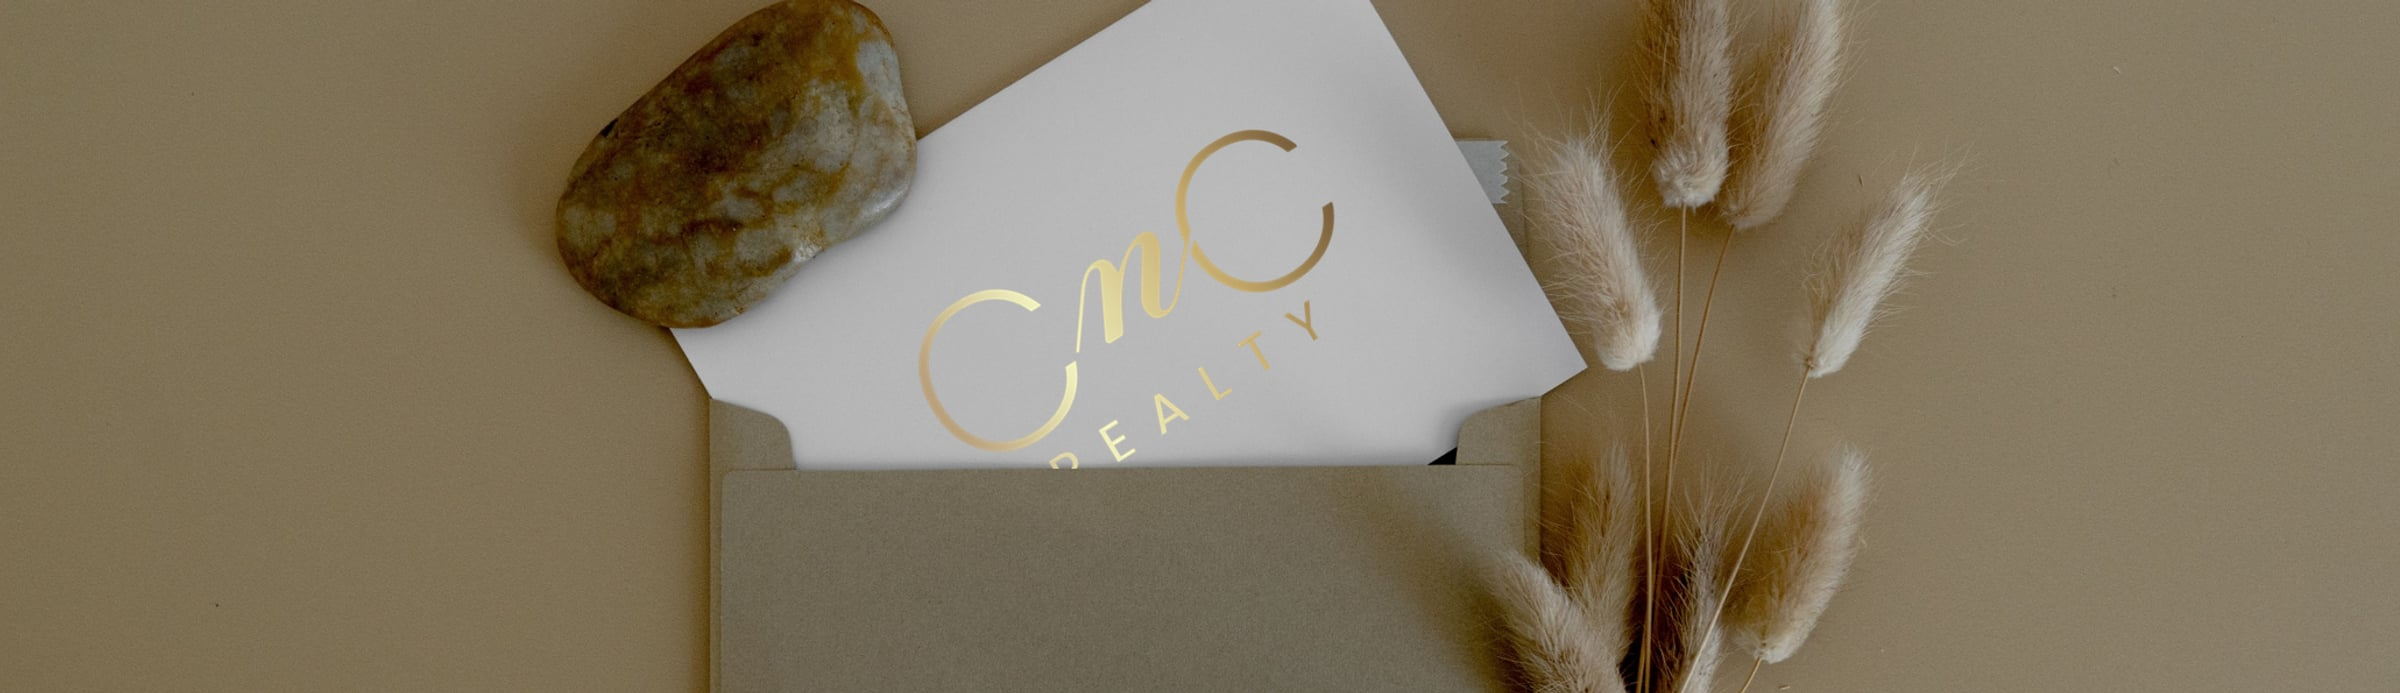
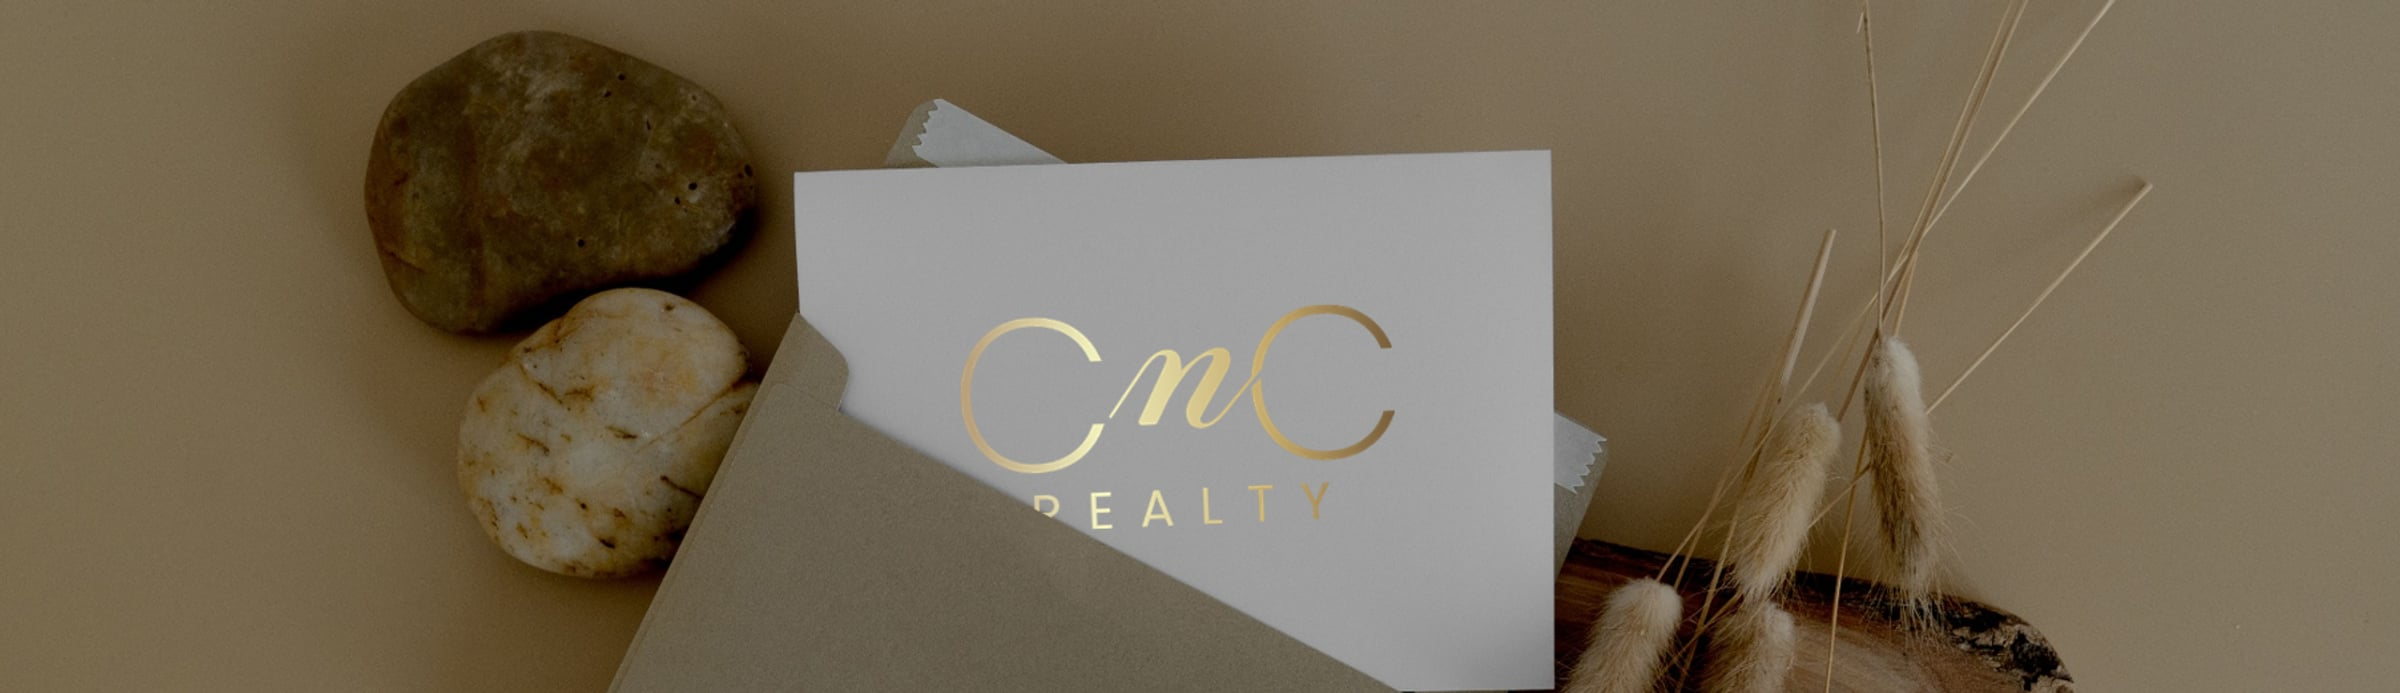
feat(newsletter): final welcome email copy, photo and layout
Subject 'Heck yeah, You're In!' with its own heading 'Welcome to our
Newsletter!' (subject and heading were one shared constant), new body copy,
'Homepage' button, and the unsubscribe line moved under the button. Swaps
in the owner's final hero photo (2400x693, 105KB).

emailLayout gains an optional afterCtaHtml slot rendered directly under the
CTA; every email that omits it renders as before (tested). The newsletter's
extra spacing (44px gaps, matching the agent welcome email) lives only in
its own markup, so the shared heading/button/unsubscribe margins are
unchanged.

diff --git a/apps/web/src/lib/email/newsletter-email.ts b/apps/web/src/lib/email/newsletter-email.ts
@@ -2,7 +2,8 @@ import { emailLayout, buildHeadingBodyHtml } from "@/lib/email";
 import { sendEmail, type SendResult } from "@/lib/email/send";
 import { unsubscribeFooterHtml } from "@/lib/email/unsubscribe";
 
-const HEADING = "Welcome to the CnC Newsletter";
+const SUBJECT = "Heck yeah, You're In!";
+const HEADING = "Welcome to our Newsletter!";
 
 /**
  * Sent once, when someone first joins the newsletter from the footer. Marketing
@@ -11,21 +12,29 @@ const HEADING = "Welcome to the CnC Newsletter";
  * other CnC email.
  */
 export async function sendNewsletterWelcome(opts: { to: string; leadId: string }): Promise<SendResult> {
-  const bodyHtml =
-    buildHeadingBodyHtml({
-      heading: HEADING,
-      photoUrl: `${process.env.NEXTAUTH_URL}/newsletter-welcome-photo.jpg`,
-      bodyHtml: `
-        <p style="color: #4b4b4b; font-size: 22.5px; line-height: 1.6; text-align: center; margin: 0;">
-          Thanks for subscribing! You&rsquo;ll get California market updates, new listings, and home tips from CnC Realty.
+  const bodyHtml = buildHeadingBodyHtml({
+    heading: HEADING,
+    photoUrl: `${process.env.NEXTAUTH_URL}/newsletter-welcome-photo.jpg`,
+    bodyHtml: `
+        <p style="color: #4b4b4b; font-size: 22.5px; line-height: 1.6; text-align: center; margin: 20px 0 12px;">
+          Going forward, we will make sure to only send you exclusive listings and important market updates to keep you ahead of the game.
         </p>
       `,
-    }) + unsubscribeFooterHtml("lead", opts.leadId, "newsletter");
+  });
 
   return sendEmail({
     to: opts.to,
-    subject: HEADING,
-    html: emailLayout({ bodyHtml, ctaLabel: "Visit CnC Realty", ctaHref: `${process.env.NEXTAUTH_URL}/` }),
+    subject: SUBJECT,
+    html: emailLayout({
+      bodyHtml,
+      ctaLabel: "Homepage",
+      ctaHref: `${process.env.NEXTAUTH_URL}/`,
+      // Spacing here is newsletter-only: the shared heading (24px), button
+      // (32px) and unsubscribe (24px) margins are left alone so no other email
+      // changes. The extra 20/12/20px brings each gap to 44px, matching the
+      // section spacing in the agent welcome email.
+      afterCtaHtml: `<div style="padding-top: 20px;">${unsubscribeFooterHtml("lead", opts.leadId, "newsletter")}</div>`,
+    }),
     stream: "broadcast",
     recipient: { kind: "lead", id: opts.leadId },
     category: "newsletter",

diff --git a/apps/web/src/__tests__/lib/email/newsletter-email.test.ts b/apps/web/src/__tests__/lib/email/newsletter-email.test.ts
@@ -26,16 +26,29 @@ describe("sendNewsletterWelcome", () => {
     const call = vi.mocked(sendEmail).mock.calls[0][0];
     expect(call).toMatchObject({
       to: "sam@example.com",
-      subject: "Welcome to the CnC Newsletter",
+      subject: "Heck yeah, You're In!",
       stream: "broadcast",
       recipient: { kind: "lead", id: "lead-9" },
       category: "newsletter",
     });
     const html = call.html!;
     expect(html).toContain("logo-black.png");
-    expect(html).toContain("Welcome to the CnC Newsletter");
-    expect(html).toContain("Thanks for subscribing!");
-    expect(html).toContain("Visit CnC Realty");
+    expect(html).toContain("Welcome to our Newsletter!");
+    expect(html).toContain(
+      "Going forward, we will make sure to only send you exclusive listings and important market updates to keep you ahead of the game."
+    );
+    expect(html).toContain("Homepage");
+    expect(html).not.toContain("Visit CnC Realty");
+    expect(html).not.toContain("Thanks for subscribing!");
+  });
+
+  it("puts the unsubscribe line under the Homepage button", async () => {
+    await sendNewsletterWelcome({ to: "sam@example.com", leadId: "lead-9" });
+    const html = vi.mocked(sendEmail).mock.calls[0][0].html!;
+    const button = html.indexOf("Homepage");
+    const unsubscribe = html.indexOf("Unsubscribe");
+    expect(button).toBeGreaterThan(-1);
+    expect(unsubscribe).toBeGreaterThan(button);
   });
 
   it("shows the newsletter hero photo like the other photo emails", async () => {

diff --git a/apps/web/src/__tests__/lib/email.test.ts b/apps/web/src/__tests__/lib/email.test.ts
@@ -746,6 +746,19 @@ describe("emailLayout", () => {
     expect(iconsIndex).toBeGreaterThan(footerIndex);
   });
 
+  it("renders afterCtaHtml directly below the CTA button, above the footer", () => {
+    const result = emailLayout({ bodyHtml: "<p>Body</p>", ctaLabel: "Go", ctaHref: "https://x.test", afterCtaHtml: "<p>AFTER-CTA</p>" });
+    const cta = result.indexOf("https://x.test");
+    const after = result.indexOf("AFTER-CTA");
+    expect(cta).toBeGreaterThan(-1);
+    expect(after).toBeGreaterThan(cta);
+    expect(after).toBeLessThan(result.indexOf("CnC Realty Team"));
+  });
+
+  it("renders nothing extra when afterCtaHtml is omitted", () => {
+    expect(html()).toBe(emailLayout({ bodyHtml: "<p>Body</p>", afterCtaHtml: undefined }));
+  });
+
   it("stays off-white everywhere -- no separate white section anywhere in the layout", () => {
     const result = html();
     expect(result).toMatch(/<body[^>]*background-color:\s*#F2F0EF/i);

diff --git a/apps/web/src/lib/email.ts b/apps/web/src/lib/email.ts
@@ -65,6 +65,9 @@ export function emailLayout(opts: {
   bodyHtml: string;
   ctaLabel?: string;
   ctaHref?: string;
+  // Optional content rendered directly under the CTA button (e.g. a marketing
+  // email's unsubscribe line). Emails that omit it render exactly as before.
+  afterCtaHtml?: string;
   footer?: string;
 }): string {
   const logoUrl = `${process.env.NEXTAUTH_URL}/logo-black.png`;
@@ -99,6 +102,7 @@ export function emailLayout(opts: {
                    </div>`
                 : ""
             }
+            ${opts.afterCtaHtml ?? ""}
           </div>
           <div style="padding: 24px 32px 40px; text-align: center;">
             <p style="color: #8a8a8a; font-size: 13px; margin: 0 0 12px;">
